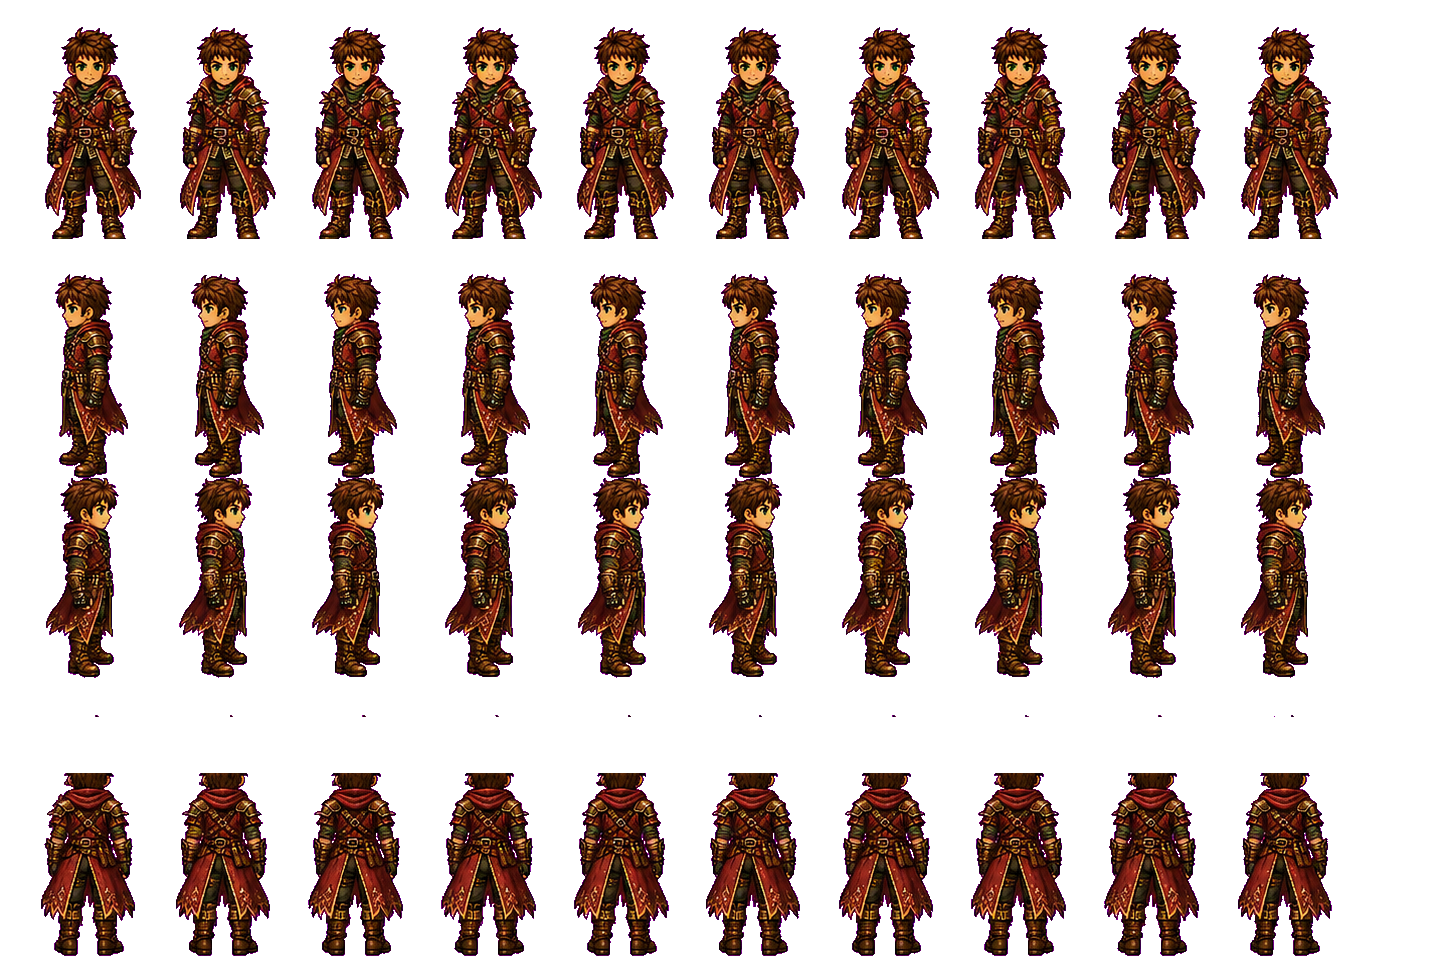
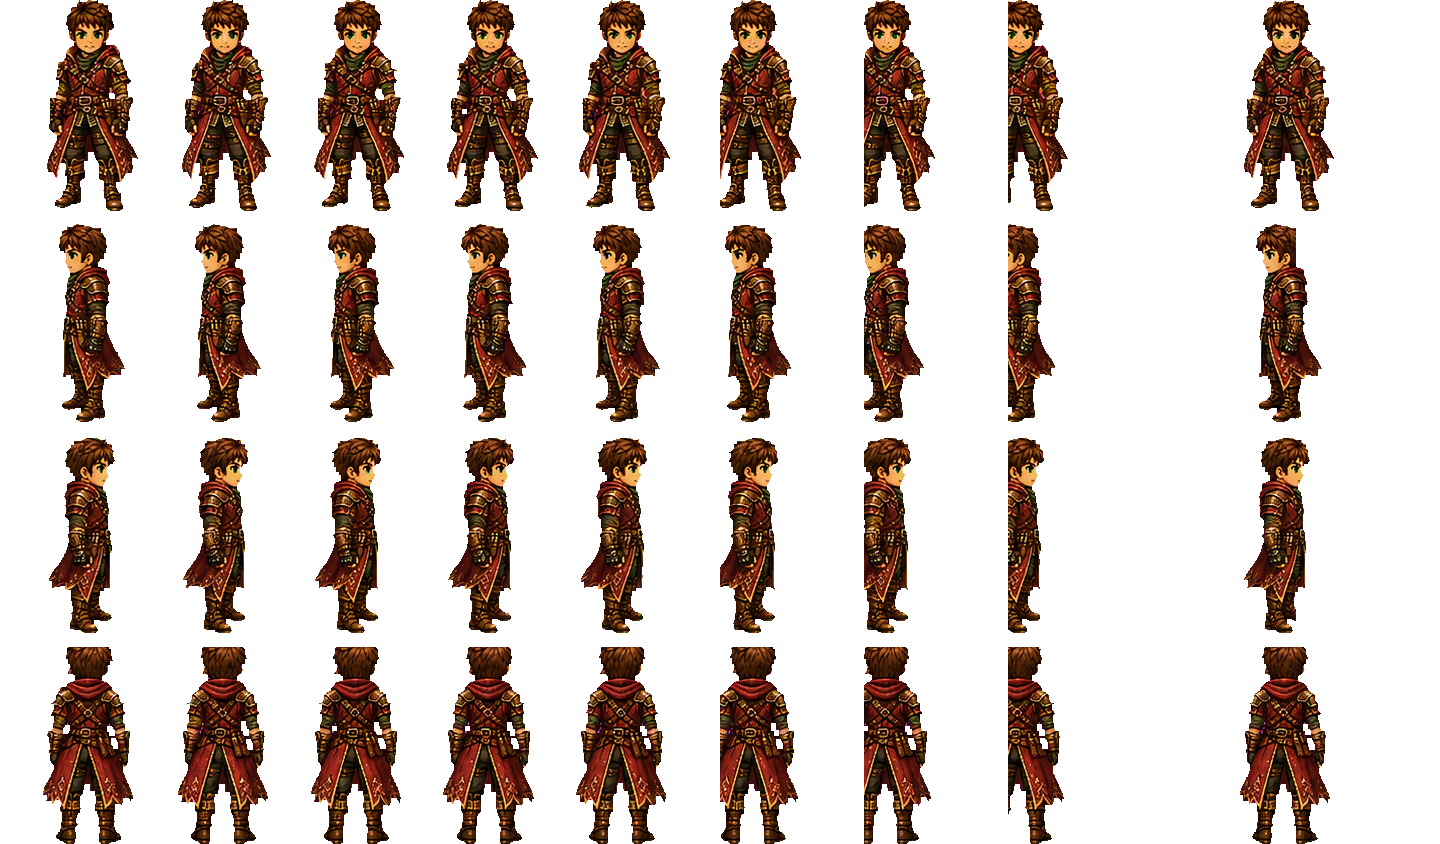
fix: qualidade do recorte da Wins/Huans — sumiu a franja magenta e a sobra de linha vizinha
O corte anterior deixava uma franja/halo rosado em volta do cabelo e da
roupa (contaminação de cor do fundo magenta nos pixels de borda semi-
transparentes) e, em alguns frames, um pedaço solto vazando da linha
vizinha da sheet de origem. scripts/process-wins.mjs ganhou:

- Descontaminação de cor de verdade na banda de transição (remove a
  mistura do magenta assumindo blend linear, não só apaga alpha)
- Erosão de 2px na silhueta (corta o resíduo que sobra mesmo depois de
  descontaminar — imperceptível no tamanho final em jogo, ~80px)
- Filtro de "maior blob conectado" por frame — resolve o vazamento
  entre linhas sem precisar de margem fixa (que antes cortava cabelo
  quando aumentada) e sem sobrar lixo desconectado

Reprocessei as duas com o pipeline novo e ajustei cw/ch/disp no
engine.ts pro tamanho final de cada uma (Wins 136x240, Huans 144x211).
Conferido em paisagem: bordas limpas, sem sobra, tamanho consistente
com NPCs ao lado.

diff --git a/src/game/engine.ts b/src/game/engine.ts
@@ -108,23 +108,25 @@ const AKLES_DIR_ROW: Record<Direction, number> = { down: 0, left: 1, up: 2, righ
 // ---- Wins — classe da Voz (personagem temporária) ----
 // Um sheet só (corrida, 10 col x 4 lin) reaproveitado pra idle/walk/run —
 // só muda a velocidade de reprodução, igual ao Akles. Célula processada
-// em scripts/process-wins.mjs: 144x260, pés ancorados embaixo da célula.
-const WINS_DISP = 0.31;
+// em scripts/process-wins.mjs (chroma-key com descontaminação de cor +
+// erosão de 2px + filtro de maior blob conectado por frame — sem franja
+// magenta e sem sobra de linha vizinha): 136x240, pés ancorados embaixo.
+const WINS_DISP = 0.335;
 const WINS_ANIM: Record<'idle' | 'walk' | 'run', AklesAnimMeta> = {
-  idle: { sheet: 'winsMove', cw: 144, ch: 260, cols: 10, fps: 6, loop: true, disp: WINS_DISP, feetFrac: 1 },
-  walk: { sheet: 'winsMove', cw: 144, ch: 260, cols: 10, fps: 10, loop: true, disp: WINS_DISP, feetFrac: 1 },
-  run: { sheet: 'winsMove', cw: 144, ch: 260, cols: 10, fps: 15, loop: true, disp: WINS_DISP, feetFrac: 1 },
+  idle: { sheet: 'winsMove', cw: 136, ch: 240, cols: 10, fps: 6, loop: true, disp: WINS_DISP, feetFrac: 1 },
+  walk: { sheet: 'winsMove', cw: 136, ch: 240, cols: 10, fps: 10, loop: true, disp: WINS_DISP, feetFrac: 1 },
+  run: { sheet: 'winsMove', cw: 136, ch: 240, cols: 10, fps: 15, loop: true, disp: WINS_DISP, feetFrac: 1 },
 };
 // ordem visual do sheet da Wins: 0=frente 1=esquerda 2=direita 3=costas
 const WINS_DIR_ROW: Record<Direction, number> = { down: 0, left: 1, right: 2, up: 3 };
 
 // ---- Huans — classe Cordas (personagem temporário) ----
-// Célula processada em scripts/process-wins.mjs (mesmo pipeline): 144x239.
-const HUANS_DISP = 0.34;
+// Célula processada em scripts/process-wins.mjs (mesmo pipeline): 144x211.
+const HUANS_DISP = 0.38;
 const HUANS_ANIM: Record<'idle' | 'walk' | 'run', AklesAnimMeta> = {
-  idle: { sheet: 'huansMove', cw: 144, ch: 239, cols: 10, fps: 6, loop: true, disp: HUANS_DISP, feetFrac: 1 },
-  walk: { sheet: 'huansMove', cw: 144, ch: 239, cols: 10, fps: 11, loop: true, disp: HUANS_DISP, feetFrac: 1 },
-  run: { sheet: 'huansMove', cw: 144, ch: 239, cols: 10, fps: 17, loop: true, disp: HUANS_DISP, feetFrac: 1 },
+  idle: { sheet: 'huansMove', cw: 144, ch: 211, cols: 10, fps: 6, loop: true, disp: HUANS_DISP, feetFrac: 1 },
+  walk: { sheet: 'huansMove', cw: 144, ch: 211, cols: 10, fps: 11, loop: true, disp: HUANS_DISP, feetFrac: 1 },
+  run: { sheet: 'huansMove', cw: 144, ch: 211, cols: 10, fps: 17, loop: true, disp: HUANS_DISP, feetFrac: 1 },
 };
 const HUANS_DIR_ROW: Record<Direction, number> = { down: 0, left: 1, right: 2, up: 3 };
 
